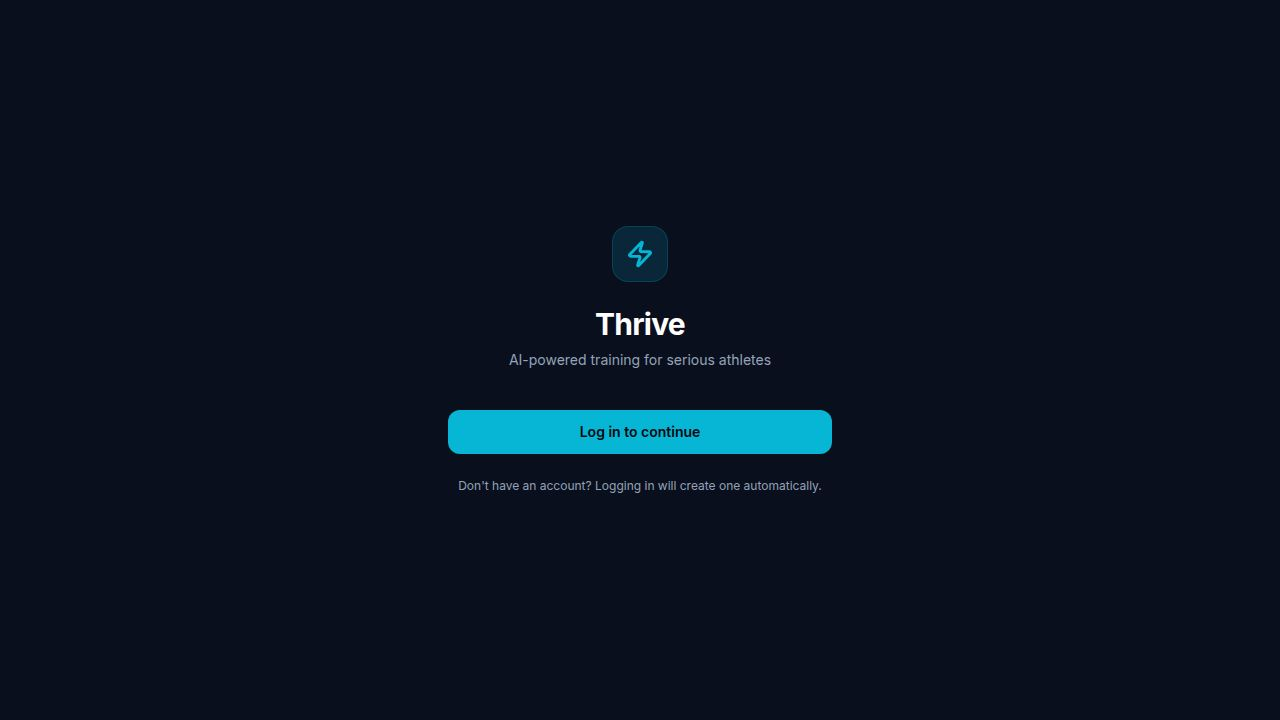
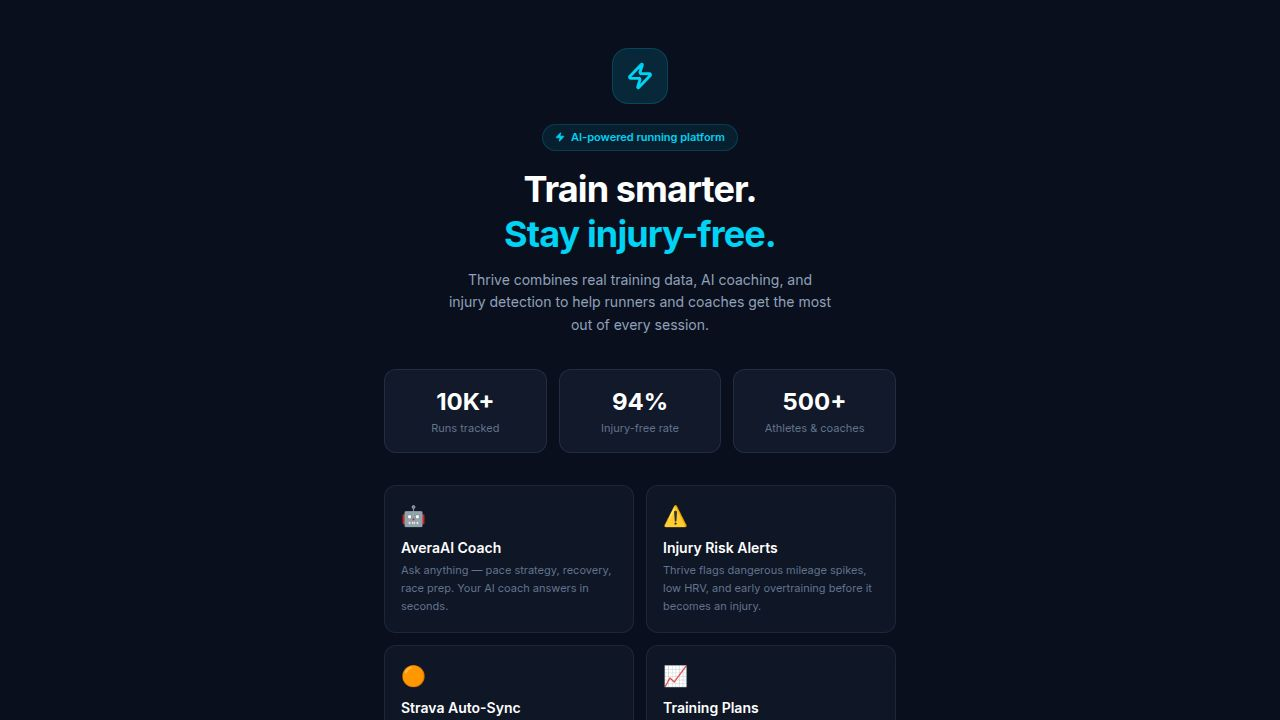
Improve Strava connection by allowing it to open in a new tab
Add `target="_top"` to Strava connection links in `activities.tsx` and `dashboard.tsx` to ensure they open in the top-level browser context, bypassing iframe restrictions.

Replit-Commit-Author: Agent
Replit-Commit-Session-Id: dca65999-daee-4675-a9d1-040d50c62244
Replit-Commit-Checkpoint-Type: full_checkpoint
Replit-Commit-Event-Id: 10e828e0-85bb-4cf3-b261-6946b4ca9dce
Replit-Commit-Screenshot-Url: https://storage.googleapis.com/screenshot-production-us-central1/cc7e07a7-3f99-4dbd-b5a0-431e4ea1b93a/dca65999-daee-4675-a9d1-040d50c62244/x9VJhtW
Replit-Helium-Checkpoint-Created: true

diff --git a/artifacts/stride-iq/src/pages/activities.tsx b/artifacts/stride-iq/src/pages/activities.tsx
@@ -232,6 +232,7 @@ export default function Activities() {
           </div>
           <a
             href="/api/strava/connect"
+            target="_top"
             className="flex items-center gap-2 text-sm font-semibold px-4 py-2 rounded-lg bg-[#FC4C02] hover:bg-[#e34400] text-white transition-colors shrink-0"
           >
             Connect Strava

diff --git a/artifacts/stride-iq/src/pages/dashboard.tsx b/artifacts/stride-iq/src/pages/dashboard.tsx
@@ -69,6 +69,7 @@ function StravaBanner() {
       </div>
       <a
         href="/api/strava/connect"
+        target="_top"
         className="shrink-0 px-4 py-2 rounded-lg bg-[#FC4C02] hover:bg-[#e34400] text-white text-xs font-bold transition-colors"
       >
         Connect Strava